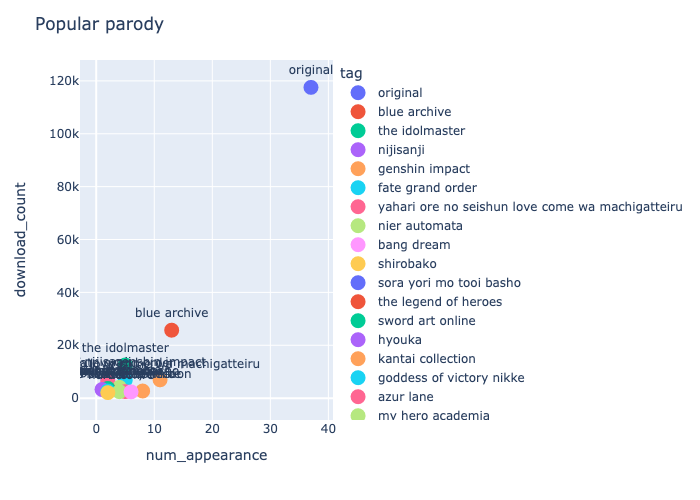
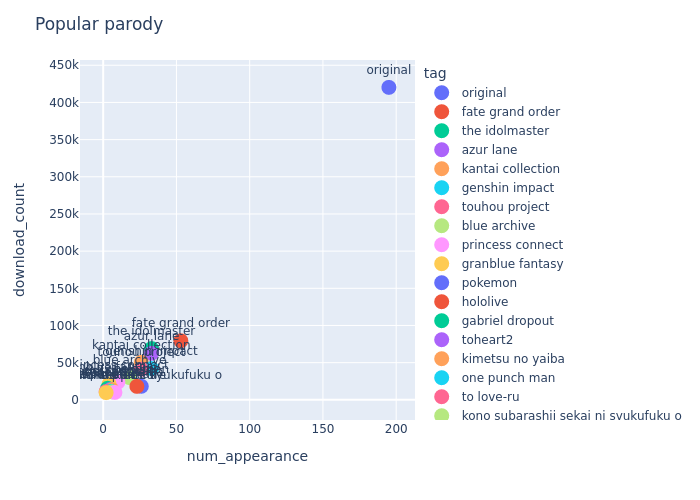
update plot

diff --git a/util.py b/util.py
@@ -9,6 +9,7 @@ import time
 
 api_url = "https://api.e-hentai.org/api.php"
 headers = {}
+min_rateing = 3
 
 #Sleep between request websites to prevent getting blocked
 def sleepSome():
@@ -21,7 +22,7 @@ def getRaw(start_page = 1, page_range = 20, save = False):
         start_page = 1
     url_list = []
     for i in tqdm(range(start_page, page_range + 1)):
-        url = "https://e-hentai.org/?f_srdd=4&advsearch=1&range={}".format(i)
+        url = "https://e-hentai.org/?f_srdd={}&f_sto=on&advsearch=1&range={}".format(min_rateing,i)
         response = requests.get(url, headers=headers)
         if response.status_code == 200:
             soup = BeautifulSoup(response.text, 'html.parser')
@@ -60,8 +61,11 @@ def getTags(gid, token):
         json_data = response.json()
         tags = json_data["gmetadata"][0]["tags"]
         title = json_data["gmetadata"][0]["title"]
+        torrent_count = int(json_data["gmetadata"][0]["torrentcount"])
+        category = json_data["gmetadata"][0]["category"]
+        valid = len(tags) > 0 and torrent_count > 0
         tqdm.write(str(tags[:5]))
-    return tags, title
+    return tags, title, category, valid
 
 #Get every tag from a list of gid and token
 def getAllTags(df = None, save = False):
@@ -69,15 +73,17 @@ def getAllTags(df = None, save = False):
         df = pd.read_csv('hentai_data.csv')
     df["tag"] = np.nan
     df["title"] = ""
+    df["category"] = ""
 
     for index, row in tqdm(df.iterrows(), total=df.shape[0]):
         gid = row['gid']
         token = row['token']
-        tag, title = getTags(gid, token)
-        if len(tag) > 1:
+        tag, title, category, valid = getTags(gid, token)
+        if valid:
             df.at[index,'tag'] = str(tag)
-        df.at[index,'title'] = title
-        time.sleep(random.uniform(1, 10))
+            df.at[index,'title'] = title
+            df.at[index,'category'] = category
+        sleepSome()
     if save:
         df.to_csv("hentai_data.csv", index=False)
     df = df.dropna()
@@ -109,9 +115,8 @@ def getDownload(df = None, save = True):
         gid = row['gid']
         token = row['token']
         download, valid = getDownloadCount(gid, token)
-        if valid:
-            tqdm.write("{} Total Downloads: {}".format(row['title'][:20], download))
-            df.at[index,'downloads'] = int(download)
+        tqdm.write("{} Total Downloads: {}".format(row['title'][:20], download))
+        df.at[index,'downloads'] = int(download)
         sleepSome()
     df = df.dropna()
     if save:

diff --git a/plot.py b/plot.py
@@ -14,6 +14,17 @@ def basicPlot(df, save_name, show = False):
     if show:
         fig.show()
 
+def plotCategory(df, show = False):
+    if df = None:
+        df = pd.read_csv("hentai_data.csv")
+    category_counts = df['category'].value_counts().reset_index()
+    category_counts.columns = ['Category', 'Count']
+    category_counts = category_counts[category_counts['Count'] >= 1]
+    fig = px.bar(category_counts, x='Category', y='Count', title='Category Counts')
+    fig.write_image("images/category_plot.png")
+    if show:
+        fig.show()
+
 def plotOverall():
     if not os.path.exists(save_folder):
         os.mkdir(save_folder)
@@ -29,8 +40,11 @@ def plotOverall():
     parody = df.loc[df['category'] == 'parody'][:20]
     basicPlot(parody, "parody")
 
+    df_data = pd.read_csv("hentai_data.csv")
+    plotCategory(df_data)
+
 
 if __name__ == '__main__':
-    plotOverall()
-   
+    plotOverall()   
+    plotCategory()
     

diff --git a/main.py b/main.py
@@ -7,13 +7,12 @@ headers = {
 
 util.headers = headers
 
-df = util.getRaw(start_page = 1, page_range = 10)
+df = util.getRaw(start_page = 1, page_range = 50)
 df = util.getAllTags(df)
 df = util.getDownload(df)
 res_df = util.getTagWithDownloads(df)
 
 print("---------")
-util.listGalleryWithTag("original")
 
 res_df = util.getTagWithDownloads()
 plot.plotOverall()

diff --git a/readme.md b/readme.md
@@ -5,6 +5,8 @@ This script scrap the most recent n pages of posts with 4 star + rating on e-hen
 
 To prevent getting blocked by the website, change the headers in main.py. The script runs slow since it will sleep for some seconds after each request to e-hentai.org
 
+Some data gathered from E-hentai.org. Only galleries with 3 stars ratings are included. Link: https://mega.nz/file/bZZXCBgQ#vQwcgOto5_Z66GEl8LLmiZQjvWU8fSkicAnP59f2Mx0
+
 Example plots:
 
 ![Alt text](images/overall.png)
@@ -12,3 +14,5 @@ Example plots:
 ![Alt text](images/character.png)
 
 ![Alt text](images/parody.png)
+
+![Alt text](images/category_plot.png)
